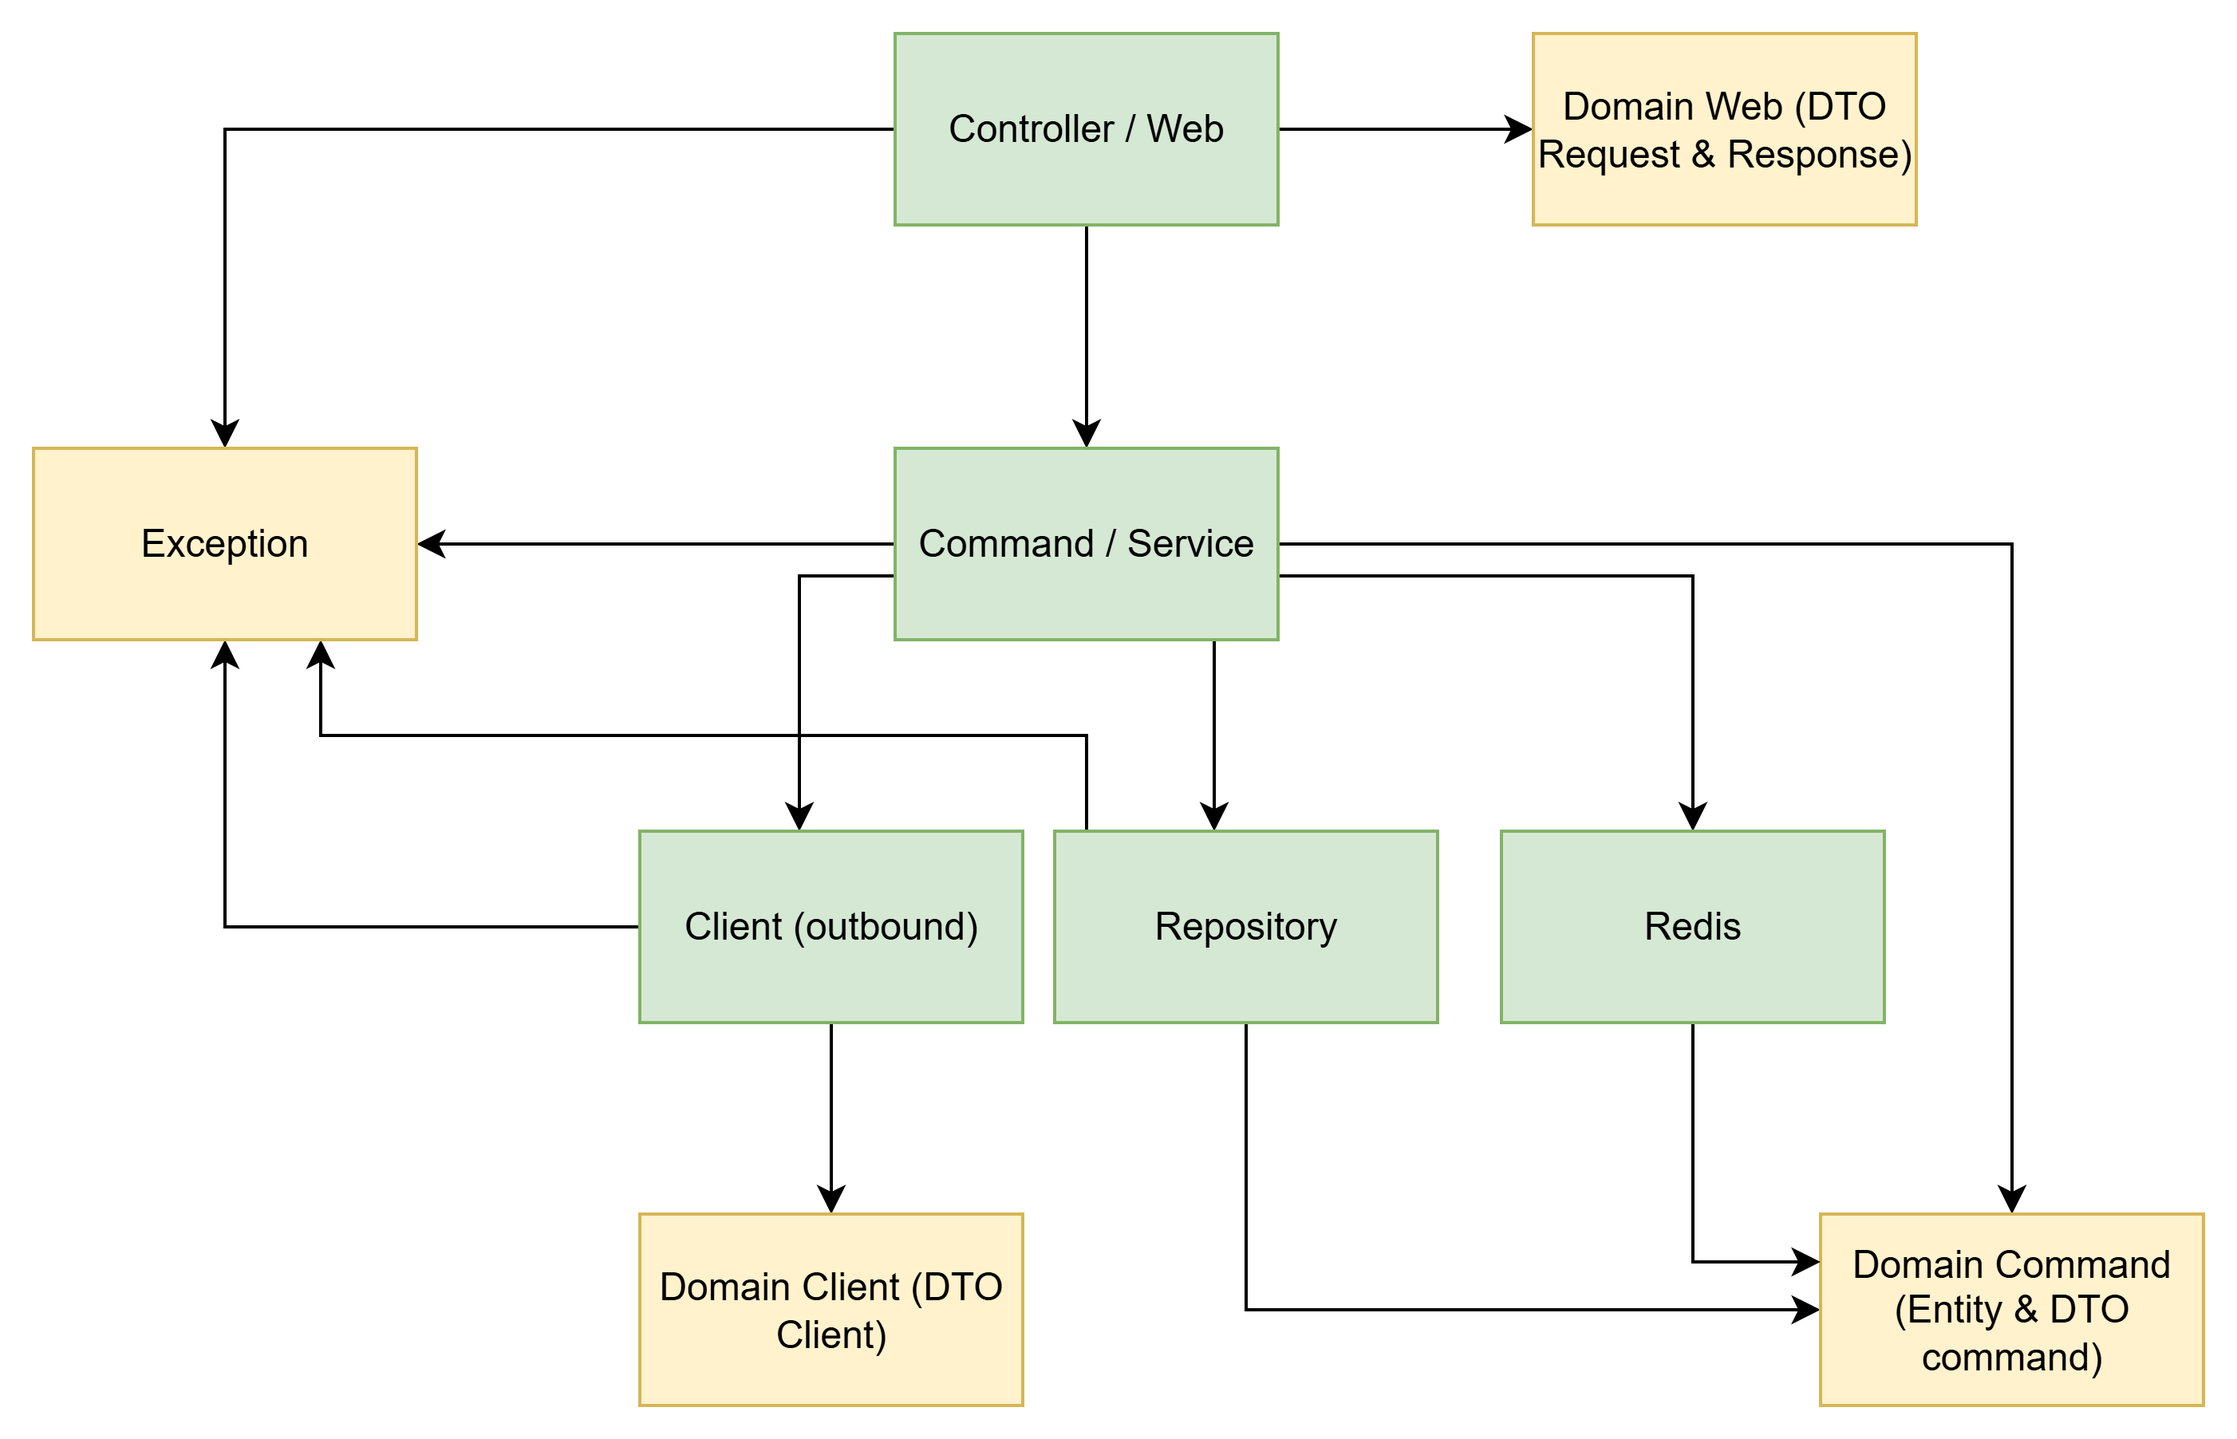
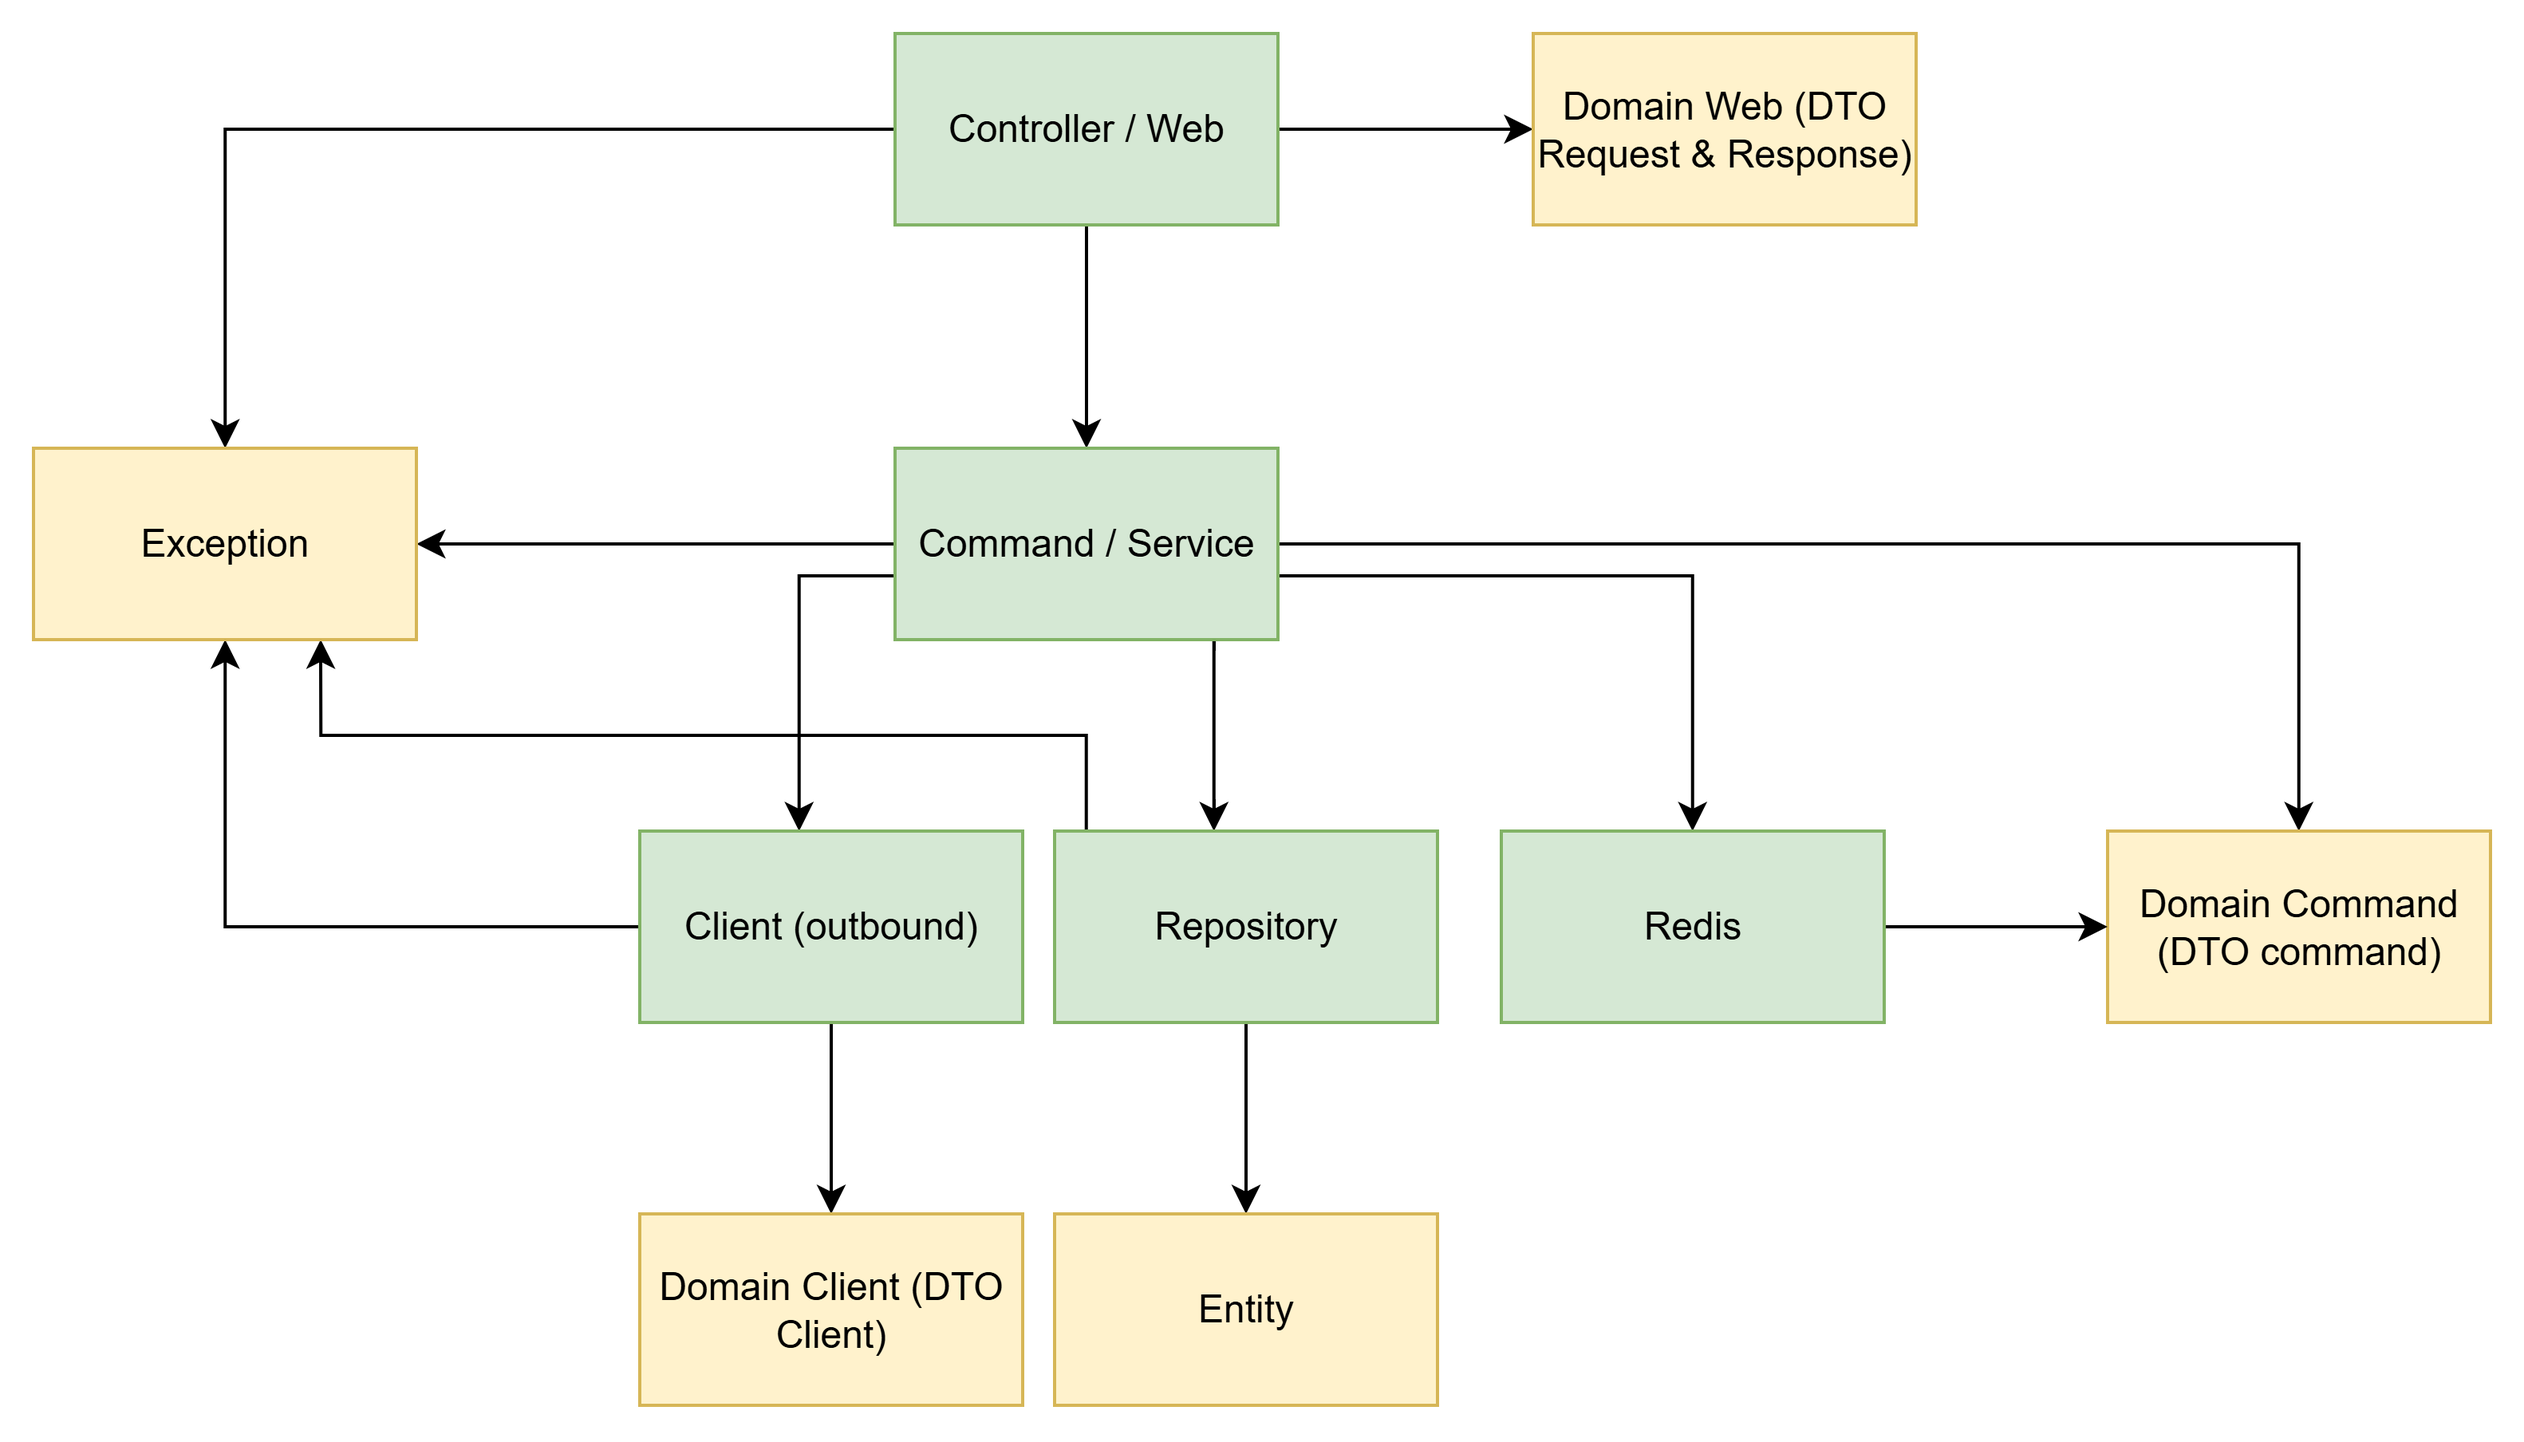
Update Multi DB and Docker
Adding Multi Connection Database
Adding Docker Deployment
Adding entity module

diff --git a/entity/src/main/java/template/config/PrimaryDBConfig.java b/entity/src/main/java/template/config/PrimaryDBConfig.java
@@ -1,0 +1,67 @@
+package template.config;
+
+import com.zaxxer.hikari.HikariDataSource;
+import jakarta.persistence.EntityManagerFactory;
+import org.springframework.beans.factory.annotation.Qualifier;
+import org.springframework.boot.autoconfigure.jdbc.DataSourceProperties;
+import org.springframework.boot.context.properties.ConfigurationProperties;
+import org.springframework.context.annotation.Bean;
+import org.springframework.context.annotation.Configuration;
+import org.springframework.context.annotation.Primary;
+import org.springframework.data.jpa.repository.config.EnableJpaRepositories;
+import org.springframework.orm.jpa.JpaTransactionManager;
+import org.springframework.orm.jpa.LocalContainerEntityManagerFactoryBean;
+import org.springframework.orm.jpa.vendor.HibernateJpaVendorAdapter;
+import org.springframework.transaction.PlatformTransactionManager;
+
+import javax.sql.DataSource;
+
+@Configuration
+@EnableJpaRepositories(
+        basePackages = "template.testing.primary",
+        entityManagerFactoryRef = "db1EntityManagerFactory",
+        transactionManagerRef = "db1TransactionManager"
+)
+public class PrimaryDBConfig {
+
+
+    @Primary
+    @Bean(name = "db1DataProp")
+    @ConfigurationProperties("spring.datasource.db1")
+    public DataSourceProperties db1DataSourceProperties() {
+        return new DataSourceProperties();
+    }
+
+    @Primary
+    @Bean(name = "db1DataSource")
+    @ConfigurationProperties("spring.datasource.db1.hikari")
+    public DataSource db1DataSource(@Qualifier("db1DataProp") DataSourceProperties properties) {
+        return properties.initializeDataSourceBuilder()
+                .type(HikariDataSource.class)
+                .build();
+    }
+
+    @Primary
+    @Bean(name = "db1EntityManagerFactory")
+    public LocalContainerEntityManagerFactoryBean db1EntityManagerFactory(
+            @Qualifier("db1DataSource") DataSource dataSource) {
+
+        HibernateJpaVendorAdapter vendorAdapter = new HibernateJpaVendorAdapter();
+        vendorAdapter.setGenerateDdl(true);
+
+        LocalContainerEntityManagerFactoryBean factory = new LocalContainerEntityManagerFactoryBean();
+        factory.setDataSource(dataSource);
+        factory.setJpaVendorAdapter(vendorAdapter);
+        factory.setPackagesToScan("template.testing.primary"); // Only scan DB1 entities
+        factory.setPersistenceUnitName("db1");
+
+        return factory;
+    }
+
+    @Primary
+    @Bean(name = "db1TransactionManager")
+    public PlatformTransactionManager db1TransactionManager(
+            @Qualifier("db1EntityManagerFactory") EntityManagerFactory entityManagerFactory) {
+        return new JpaTransactionManager(entityManagerFactory);
+    }
+}

diff --git a/entity/src/main/java/template/config/SecondaryDBConfig.java b/entity/src/main/java/template/config/SecondaryDBConfig.java
@@ -1,0 +1,61 @@
+package template.config;
+
+import com.zaxxer.hikari.HikariDataSource;
+import jakarta.persistence.EntityManagerFactory;
+import org.springframework.beans.factory.annotation.Qualifier;
+import org.springframework.boot.autoconfigure.jdbc.DataSourceProperties;
+import org.springframework.boot.context.properties.ConfigurationProperties;
+import org.springframework.context.annotation.Bean;
+import org.springframework.context.annotation.Configuration;
+import org.springframework.data.jpa.repository.config.EnableJpaRepositories;
+import org.springframework.orm.jpa.JpaTransactionManager;
+import org.springframework.orm.jpa.LocalContainerEntityManagerFactoryBean;
+import org.springframework.orm.jpa.vendor.HibernateJpaVendorAdapter;
+import org.springframework.transaction.PlatformTransactionManager;
+
+import javax.sql.DataSource;
+
+@Configuration
+@EnableJpaRepositories(
+        basePackages = "template.testing.secondary",
+        entityManagerFactoryRef = "db2EntityManagerFactory",
+        transactionManagerRef = "db2TransactionManager"
+)
+public class SecondaryDBConfig {
+
+    @Bean(name = "db2DataProp")
+    @ConfigurationProperties("spring.datasource.db2")
+    public DataSourceProperties db2DataSourceProperties() {
+        return new DataSourceProperties();
+    }
+
+    @Bean(name = "db2DataSource")
+    @ConfigurationProperties("spring.datasource.db2.hikari")
+    public DataSource db2DataSource(@Qualifier("db2DataProp") DataSourceProperties properties) {
+        return properties.initializeDataSourceBuilder()
+                .type(HikariDataSource.class)
+                .build();
+    }
+
+    @Bean(name = "db2EntityManagerFactory")
+    public LocalContainerEntityManagerFactoryBean db2EntityManagerFactory(
+            @Qualifier("db2DataSource") DataSource dataSource) {
+
+        HibernateJpaVendorAdapter vendorAdapter = new HibernateJpaVendorAdapter();
+        vendorAdapter.setGenerateDdl(true);
+
+        LocalContainerEntityManagerFactoryBean factory = new LocalContainerEntityManagerFactoryBean();
+        factory.setDataSource(dataSource);
+        factory.setJpaVendorAdapter(vendorAdapter);
+        factory.setPackagesToScan("template.testing.secondary"); // Only scan DB2 entities
+        factory.setPersistenceUnitName("db2");
+
+        return factory;
+    }
+
+    @Bean(name = "db2TransactionManager")
+    public PlatformTransactionManager db2TransactionManager(
+            @Qualifier("db2EntityManagerFactory") EntityManagerFactory entityManagerFactory) {
+        return new JpaTransactionManager(entityManagerFactory);
+    }
+}

diff --git a/command/src/main/java/template/testing/impl/TestingCommandImpl.java b/command/src/main/java/template/testing/impl/TestingCommandImpl.java
@@ -6,9 +6,9 @@ import org.springframework.beans.factory.annotation.Autowired;
 import org.springframework.stereotype.Service;
 import template.AbstractCommand;
 import template.testing.RedisObject;
-import template.testing.TestingEntity;
-import template.testing.TestingEntityRepository;
+import template.testing.primary.TestingPrimaryEntityRepository;
 import template.testing.TestingCommand;
+import template.testing.primary.TestingPrimaryEntity;
 
 @Service
 public class TestingCommandImpl extends AbstractCommand<JsonNode, String>
@@ -18,7 +18,7 @@ public class TestingCommandImpl extends AbstractCommand<JsonNode, String>
     private RedisObject redisObject;
 
     @Autowired
-    private TestingEntityRepository repository;
+    private TestingPrimaryEntityRepository repository;
 
     private final ObjectMapper objectMapper = new ObjectMapper();
 
@@ -28,7 +28,7 @@ public class TestingCommandImpl extends AbstractCommand<JsonNode, String>
             count = 1l;
         }
         redisObject.saveRequest(String.valueOf(count), jsonNode);
-        TestingEntity entity = objectMapper.convertValue(jsonNode, TestingEntity.class);
+        TestingPrimaryEntity entity = objectMapper.convertValue(jsonNode, TestingPrimaryEntity.class);
         repository.saveAndFlush(entity);
         return "Okay";
     }

diff --git a/entity/src/main/java/template/testing/secondary/TestingSecondaryEntity.java b/entity/src/main/java/template/testing/secondary/TestingSecondaryEntity.java
@@ -1,4 +1,4 @@
-package template.testing;
+package template.testing.secondary;
 
 import com.fasterxml.jackson.annotation.JsonProperty;
 import jakarta.persistence.Entity;
@@ -9,6 +9,7 @@ import lombok.*;
 
 import java.io.Serial;
 import java.io.Serializable;
+import java.time.LocalDateTime;
 
 @Entity
 @Getter
@@ -16,18 +17,22 @@ import java.io.Serializable;
 @ToString
 @NoArgsConstructor
 @AllArgsConstructor
-public class TestingEntity implements Serializable {
+public class TestingSecondaryEntity implements Serializable {
 
     @Serial
-    private static final long serialVersionUID = -7906722929500777147L;
+    private static final long serialVersionUID = -1350893978036911130L;
 
     @Id
     @GeneratedValue(strategy = GenerationType.IDENTITY)
     private Long id;
+
+    private LocalDateTime timestamp;
 
     @JsonProperty("text_test")
     private String textTest;
 
     @JsonProperty("status_test")
     private boolean statusTest;
+
+
 }

diff --git a/entity/src/main/java/template/testing/primary/TestingPrimaryEntity.java b/entity/src/main/java/template/testing/primary/TestingPrimaryEntity.java
@@ -1,0 +1,33 @@
+package template.testing.primary;
+
+import com.fasterxml.jackson.annotation.JsonProperty;
+import jakarta.persistence.Entity;
+import jakarta.persistence.GeneratedValue;
+import jakarta.persistence.GenerationType;
+import jakarta.persistence.Id;
+import lombok.*;
+
+import java.io.Serial;
+import java.io.Serializable;
+
+@Entity
+@Getter
+@Setter
+@ToString
+@NoArgsConstructor
+@AllArgsConstructor
+public class TestingPrimaryEntity implements Serializable {
+
+    @Serial
+    private static final long serialVersionUID = -7906722929500777147L;
+
+    @Id
+    @GeneratedValue(strategy = GenerationType.IDENTITY)
+    private Long id;
+
+    @JsonProperty("text_test")
+    private String textTest;
+
+    @JsonProperty("status_test")
+    private boolean statusTest;
+}

diff --git a/repository/src/main/java/template/testing/secondary/TestingSecondaryEntityRepository.java b/repository/src/main/java/template/testing/secondary/TestingSecondaryEntityRepository.java
@@ -1,0 +1,9 @@
+package template.testing.secondary;
+
+import org.springframework.data.jpa.repository.JpaRepository;
+import org.springframework.stereotype.Repository;
+
+@Repository
+public interface TestingSecondaryEntityRepository extends JpaRepository<TestingSecondaryEntity, Long> {
+
+}

diff --git a/repository/src/main/java/template/testing/primary/TestingPrimaryEntityRepository.java b/repository/src/main/java/template/testing/primary/TestingPrimaryEntityRepository.java
@@ -1,0 +1,9 @@
+package template.testing.primary;
+
+import org.springframework.data.jpa.repository.JpaRepository;
+import org.springframework.stereotype.Repository;
+
+@Repository
+public interface TestingPrimaryEntityRepository extends JpaRepository<TestingPrimaryEntity, Long> {
+
+}
